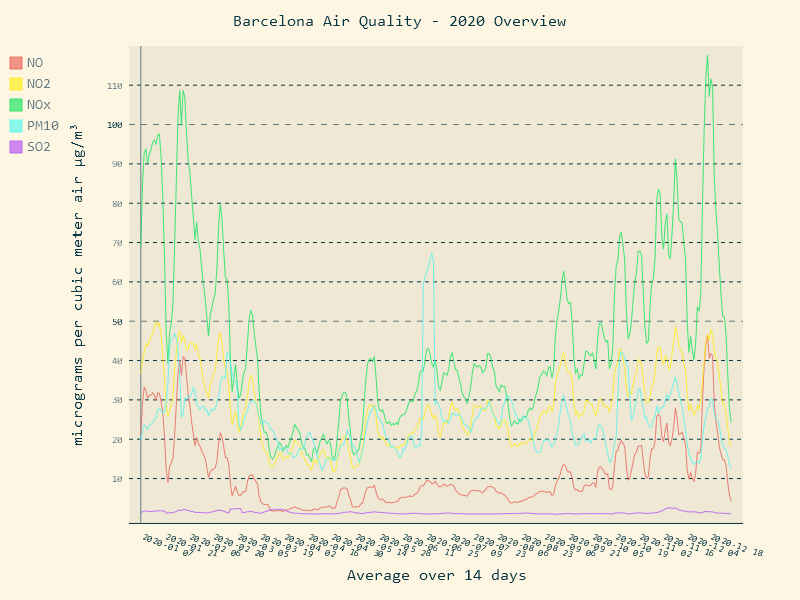
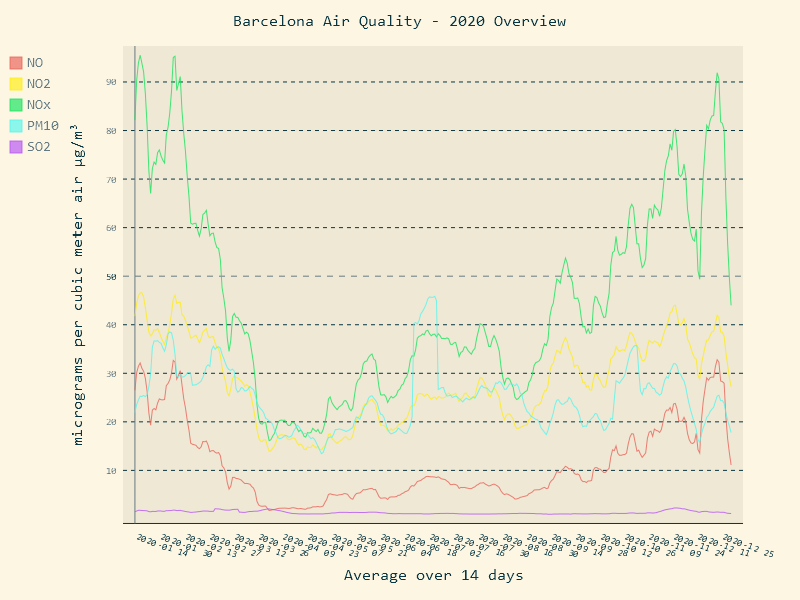
Updated averages bug

Changed region(s): [[0.125, 0.09, 0.9688, 0.99]]

diff --git a/airquality.py b/airquality.py
@@ -97,14 +97,14 @@ def get_2020_trend_df(average_over=7):
     df = pd.pivot_table(df, index='date', columns='type',
                         values='daily_avg', fill_value=0)
 
-    # Calculate average value over 7 days
+    # Calculate average value over X days
     df = df.rolling(average_over).mean().dropna()
 
     return df
 
 
 def airquality_2020_trend():
-    df = get_2020_trend_df()
+    df = get_2020_trend_df(14)
     # Build and render chart
 
     chart = pygal.Line(
